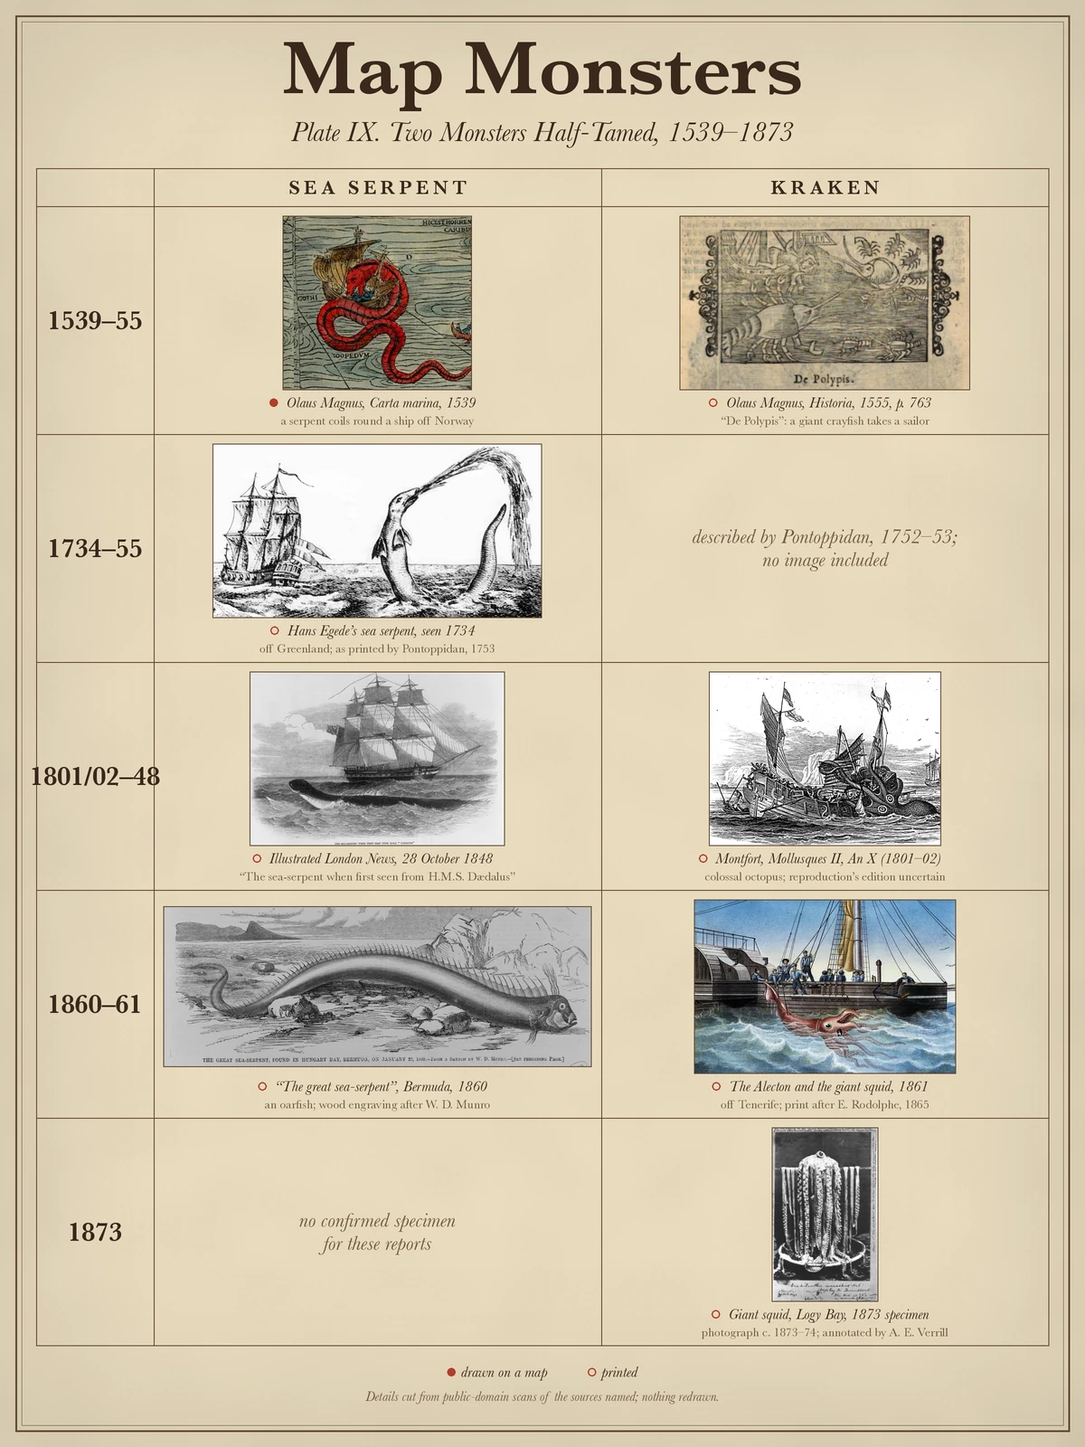
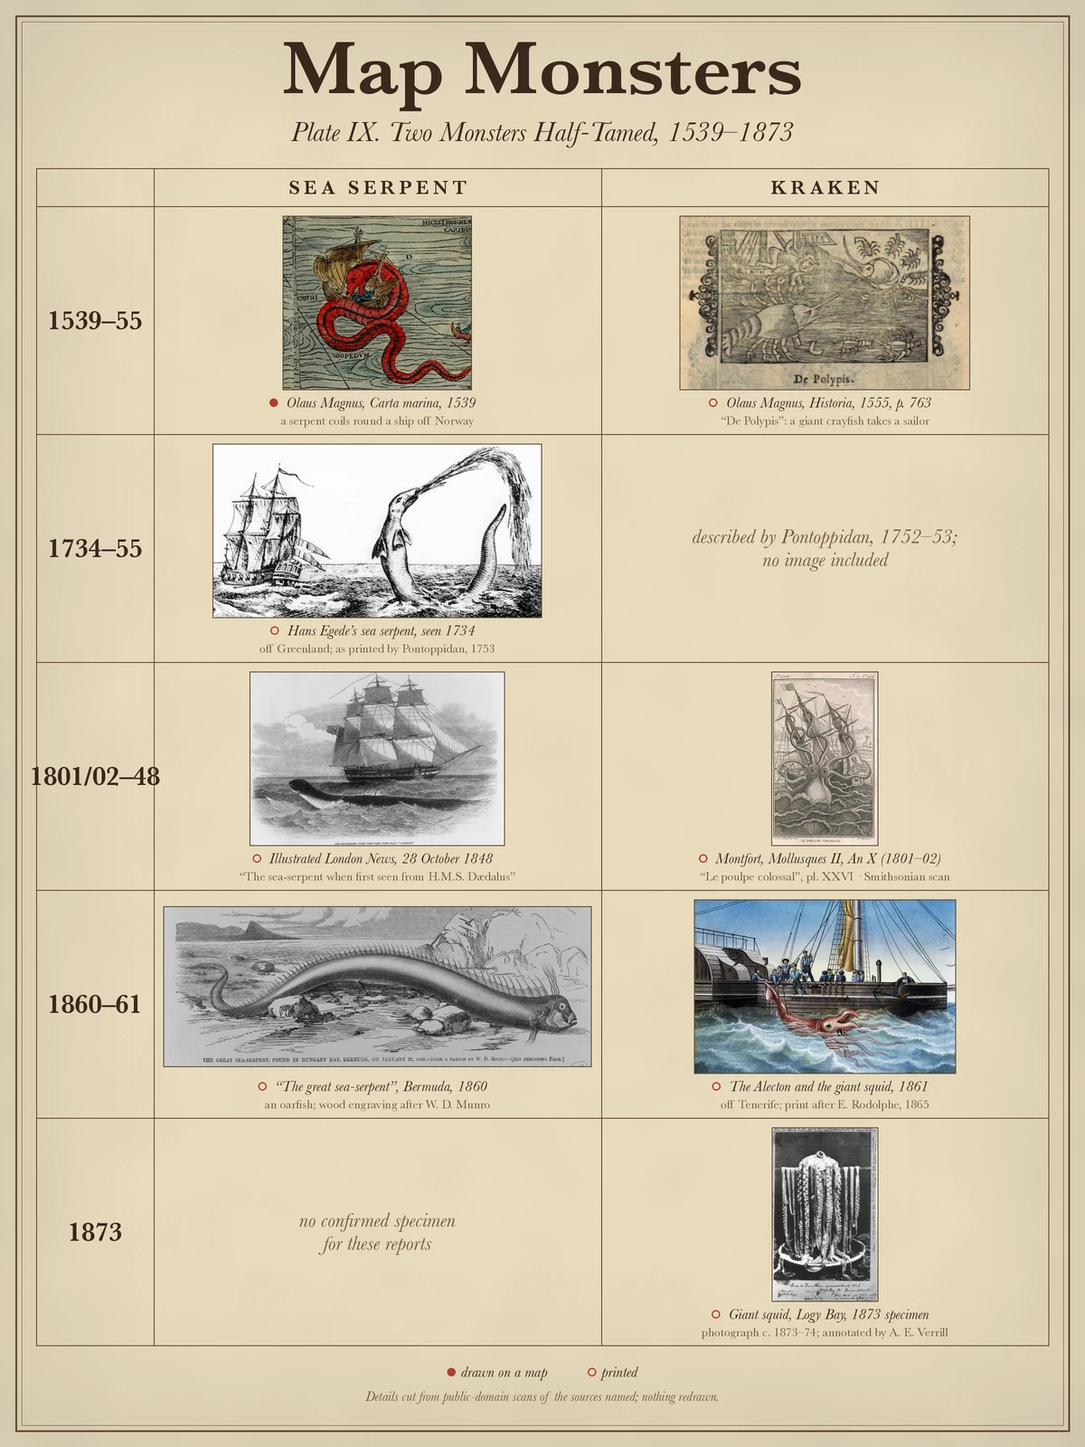
Replace Montfort reproduction with Smithsonian original-edition plate

Changed region(s): [[0.6475, 0.4375, 0.8942, 0.625]]

diff --git a/experiments/map-monsters/index.html b/experiments/map-monsters/index.html
@@ -171,9 +171,9 @@
 <p class="evidence">Evidence notes: <a href="https://www.loc.gov/item/2003680172/">Reference 1 ↗</a></p>
 </details>
 <details class="specimen" id="specimen-kraken_1801"><summary><span>1801/02–48</span> Kraken</summary>
-<p class="caption">Montfort, Mollusques II, An X (1801–02)</p><p>colossal octopus; reproduction’s edition uncertain</p><p>Le poulpe colossal means the colossal octopus. Montfort distinguished this from his kraken octopus. The work’s volume II is dated An X (1801–1802); the exact month is unknown. The supplied reproduction is catalogued as 1810 on Commons and derives from a 1994 book, so its particular printed edition remains uncertain.</p>
-<figure><a href="img/context/kraken_1801.webp" target="_blank" rel="noopener" aria-label="Enlarge source context for Kraken"><img src="img/context/kraken_1801.webp" loading="lazy" width="1400" alt="Selected detail outlined in red within the supplied scan: Montfort, Mollusques II, An X (1801–02)"></a><figcaption><a href="https://commons.wikimedia.org/wiki/File:Denys_de_Montfort_Poulpe_Colossal.jpg">Source record / full work ↗</a> · Public domain</figcaption></figure>
-<p class="evidence">Evidence notes: <a href="https://www.biodiversitylibrary.org/bibliography/51804">Reference 1 ↗</a> · <a href="https://www.biodiversitylibrary.org/item/206416?t=51804">Reference 2 ↗</a></p>
+<p class="caption">Montfort, Mollusques II, An X (1801–02)</p><p>“Le poulpe colossal”, pl. XXVI · Smithsonian scan</p><p>Le poulpe colossal means the colossal octopus. Montfort distinguished this from his kraken octopus. This is a scan of plate XXVI from the Smithsonian Libraries copy of volume II, original French edition, Paris, F. Dufart, An X (1801–1802). The sheet reads “Pl. XXVI”, “T. 2. P. 256” and “Le poulpe colossal”; the title page verifies the publisher and year. The exact Gregorian publication month remains unknown.</p>
+<figure><a href="img/context/kraken_1801.webp" target="_blank" rel="noopener" aria-label="Enlarge source context for Kraken"><img src="img/context/kraken_1801.webp" loading="lazy" width="1400" alt="Selected detail outlined in red within the supplied scan: Montfort, Mollusques II, An X (1801–02)"></a><figcaption><a href="https://archive.org/details/Histoirenaturel2Deny/page/n294/mode/1up">Source record / full work ↗</a> · Public domain (Smithsonian Libraries / BHL)</figcaption></figure>
+<p class="evidence">Evidence notes: <a href="https://archive.org/details/Histoirenaturel2Deny/page/n4/mode/1up">Reference 1 ↗</a> · <a href="https://archive.org/details/Histoirenaturel2Deny">Reference 2 ↗</a> · <a href="https://www.biodiversitylibrary.org/bibliography/51804">Reference 3 ↗</a></p>
 </details>
 <details class="specimen" id="specimen-serp_1860"><summary><span>1860–61</span> Sea Serpent</summary>
 <p class="caption">“The great sea-serpent”, Bermuda, 1860</p><p>an oarfish; wood engraving after W. D. Munro</p><p>The print calls the animal a sea-serpent; it is identified here as an oarfish. The reported find was 22 January 1860; the engraving appeared in Harper’s Weekly on 3 March 1860.</p>
@@ -233,7 +233,7 @@
     <h2 id="dates-title">Dates behind the pictures</h2>
     <dl>
       <dt>Montfort · An X (1801–1802)</dt>
-      <dd>Volume II of <i>Mollusques</i> is dated An X, a French Republican year spanning September 1801–September 1802. BHL states that the exact publication months are unknown. We retain the range rather than choosing 1801 or 1802. The supplied reproduction has a conflicting 1810 catalogue date and comes via a 1994 book; its particular printed edition is unverified. <a href="https://www.biodiversitylibrary.org/bibliography/51804">BHL bibliographic notes ↗</a> · <a href="https://commons.wikimedia.org/wiki/File:Denys_de_Montfort_Poulpe_Colossal.jpg">Reproduction record ↗</a></dd>
+      <dd>Volume II of <i>Mollusques</i> is dated An X, a French Republican year spanning September 1801–September 1802. BHL states that the exact publication months are unknown. We retain the range rather than choosing 1801 or 1802. The image now comes directly from the Smithsonian Libraries copy of the original French edition: plate XXVI, facing p. 256. Its title page names Paris, F. Dufart, An X. <a href="https://archive.org/details/Histoirenaturel2Deny/page/n294/mode/1up">Original plate ↗</a> · <a href="https://archive.org/details/Histoirenaturel2Deny/page/n4/mode/1up">Title page ↗</a> · <a href="https://www.biodiversitylibrary.org/bibliography/51804">BHL bibliographic notes ↗</a></dd>
       <dt>Logy Bay · 1873 specimen; photograph c. 1873–1874</dt>
       <dd>Harvard’s Museum of Comparative Zoology dates the catch and illustrated specimen to 1873; Smithsonian’s caption dates the bath photograph to 1874. The plate distinguishes the specimen year from an uncertain exposure date. Verrill’s handwritten notes are a later layer of evidence. <a href="https://www.mcz.harvard.edu/sites/g/files/omnuum6431/files/mcz/files/mcz_ar_2023-24_web_final_ada.pdf">MCZ report, p. 7 ↗</a> · <a href="https://ocean.si.edu/ocean-life/invertebrates/giant-squid">Smithsonian caption ↗</a></dd>
       <dt>Other event and publication dates</dt>

diff --git a/execution/rebuild_map_monsters.py b/execution/rebuild_map_monsters.py
@@ -92,16 +92,20 @@ def catalogue(manifest: dict, crops: dict) -> str:
     return '\n'.join(parts)
 
 
-def export(manifest: dict) -> None:
+def export(manifest: dict, selected: str | None = None) -> None:
     from PIL import Image, ImageDraw
     crops = json.loads((BASE / 'build/crops.json').read_text())
     output = PUBLIC / 'img'
     (output / 'context').mkdir(parents=True, exist_ok=True)
     for filename, name in [('map-monsters-plate-real.png', 'sources'), ('map-monsters-plate-ix-real.png', 'ix-sources'), ('map-monsters-plate-x-real.png', 'x-sources')]:
+        if selected and name != {'viii': 'sources', 'ix': 'ix-sources', 'x': 'x-sources'}[selected]:
+            continue
         with Image.open(BASE / 'renders' / filename) as plate:
             plate.save(output / f'{name}.webp', quality=90, method=6)
             plate.resize((1200, 1600), Image.Resampling.LANCZOS).save(output / f'{name}-1200.webp', quality=90, method=6)
     for key, spec in crops.items():
+        if selected and not any(key in c['crops'] for c in manifest['cells'] if c['plate'] == selected):
+            continue
         with Image.open(BASE / 'sources' / spec['src']) as original:
             image = original.convert('RGB')
         scale = image.width / spec.get('basis', image.width)
@@ -118,13 +122,14 @@ def export(manifest: dict) -> None:
     before, rest = text.split(start, 1)
     _, after = rest.split(end, 1)
     path.write_text(before + start + '\n' + catalogue(manifest, crops) + '\n' + end + after)
-    LOG.info('Exported three plates, 31 context images and 30 catalogue entries')
+    LOG.info('Exported %s plates and their scan contexts; updated 30 catalogue entries', selected or 'three')
 
 
 def main() -> int:
     parser = argparse.ArgumentParser(description=__doc__)
     parser.add_argument('--fetch', action='store_true', help='Download missing scans; reject changed bytes')
     parser.add_argument('--verify-only', action='store_true', help='Check cache without rebuilding')
+    parser.add_argument('--plate', choices=['viii', 'ix', 'x'], help='Rebuild only one plate and its contexts')
     args = parser.parse_args()
     logging.basicConfig(level=logging.INFO, format='%(levelname)s %(message)s')
     try:
@@ -133,9 +138,13 @@ def main() -> int:
         manifest = json.loads((BASE / 'manifest.json').read_text())
         verify_sources(manifest, args.fetch)
         if not args.verify_only:
-            for script in ('crop.py', 'plate.py', 'plates.py'):
-                subprocess.run([sys.executable, '-I', str(BASE / 'build' / script)], check=True)
-            export(manifest)
+            subprocess.run([sys.executable, '-I', str(BASE / 'build/crop.py')], check=True)
+            if args.plate in (None, 'viii'):
+                subprocess.run([sys.executable, '-I', str(BASE / 'build/plate.py')], check=True)
+            if args.plate != 'viii':
+                command = [sys.executable, '-I', str(BASE / 'build/plates.py')]
+                subprocess.run(command + ([args.plate] if args.plate else []), check=True)
+            export(manifest, args.plate)
         return 0
     except (OSError, ValueError, RuntimeError, subprocess.CalledProcessError) as error:
         LOG.error('%s', error)

diff --git a/execution/test_map_monsters.py b/execution/test_map_monsters.py
@@ -13,6 +13,20 @@ import rebuild_map_monsters as build
 
 
 class SourceContract(unittest.TestCase):
+    def test_montfort_uses_institutional_original_with_title_evidence(self):
+        manifest = json.loads((build.BASE / 'manifest.json').read_text())
+        crops = json.loads((build.BASE / 'build/crops.json').read_text())
+        source = manifest['sources'][crops['kraken_1801']['src']]
+        self.assertEqual(source['download_url'], 'https://archive.org/download/Histoirenaturel2Deny/page/n294_w2000.jpg')
[1 lines of base64/hex data omitted]
+        evidence = source['edition_evidence']
+        self.assertIn('AN X', evidence['title_page_transcription'])
+        self.assertIn('DUFART', evidence['title_page_transcription'])
+        self.assertEqual(evidence['reader_index'], 294)
+        self.assertEqual(evidence['scandata_leaf'], 295)
+        self.assertIn('XXVI', evidence['plate_transcription'])
+        self.assertIn('/page/n4/', evidence['title_page'])
+
     def test_captions_match_plate_renderers(self):
         sys.path.insert(0, str(build.BASE / 'build'))
         import plate

diff --git a/experiments-source/map-monsters/build/plates.py b/experiments-source/map-monsters/build/plates.py
@@ -34,7 +34,7 @@ PLATES = {
             ]),
             ("1801/02–48", [
                 cell("serp_1848", False, "Illustrated London News, 28 October 1848", "“The sea-serpent when first seen from H.M.S. Dædalus”"),
-                cell("kraken_1801", False, "Montfort, Mollusques II, An X (1801–02)", "colossal octopus; reproduction’s edition uncertain"),
+                cell("kraken_1801", False, "Montfort, Mollusques II, An X (1801–02)", "“Le poulpe colossal”, pl. XXVI · Smithsonian scan"),
             ]),
             ("1860–61", [
                 cell("serp_1860", False, "“The great sea-serpent”, Bermuda, 1860", "an oarfish; wood engraving after W. D. Munro"),
@@ -152,5 +152,9 @@ def build(key: str, spec: dict) -> Path:
 
 
 if __name__ == "__main__":
-    for k, s in PLATES.items():
-        build(k, s)
+    import argparse
+    parser = argparse.ArgumentParser(description=__doc__)
+    parser.add_argument('plate', nargs='?', choices=['ix', 'x'])
+    args = parser.parse_args()
+    for k in ([args.plate] if args.plate else PLATES):
+        build(k, PLATES[k])

diff --git a/knowledge/domain/map-monsters-evidence.md b/knowledge/domain/map-monsters-evidence.md
@@ -15,7 +15,15 @@ The three plates are selected comparisons of European depictions, mainly norther
 
 The [BHL bibliographic record](https://www.biodiversitylibrary.org/bibliography/51804) explicitly says volumes 1–4 are dated An X, explains the Republican calendar range, and states that exact publication months are unknown. The [Smithsonian copy of volume II](https://www.biodiversitylibrary.org/item/206416?t=51804) is catalogued as 1802; the [Harvard copy](https://www.biodiversitylibrary.org/item/110561?t=51804) is catalogued as 1801. Use **An X (1801–1802)**, not an asserted exact Gregorian publication year. This range is supported by the volume-level catalogue notes.
 
-The supplied [Commons reproduction](https://commons.wikimedia.org/wiki/File:Denys_de_Montfort_Poulpe_Colossal.jpg) has an 1810 date, lists Ellis's 1994 book as its source, and contains archive-photo metadata. It is not established as a scan of the particular first-edition sheet. The source plate and specimen note explicitly distinguish the work's date from the reproduction's unresolved edition. No authenticity claim about this reproduction was added. A direct first-edition replacement would improve this cell when one can be retrieved and compared.
+### Original-edition scan recovered — 2026-11-27
+
+The Montfort cell now uses [Plate XXVI in the Smithsonian Libraries volume-II scan](https://archive.org/details/Histoirenaturel2Deny/page/n294/mode/1up), item `Histoirenaturel2Deny`, call number **39088008978892**. The [title page, reader index n4](https://archive.org/details/Histoirenaturel2Deny/page/n4/mode/1up) visibly states **PAR DENYS-MONTFORT; TOME SECOND; A PARIS; DE L’IMPRIMERIE DE F. DUFART; AN X**. The selected engraving visibly states **Pl. XXVI; T. 2. P. 256; LE POULPE COLOSSAL**. Those inscriptions, the complete institutional volume and its catalogue description identify the original French An X edition rather than an unattached later reproduction. The Smithsonian catalogue describes this copy's original orange paperboard binding and provenance from S. Stillman Berry via Clyde Roper.
+
[1 lines of base64/hex data omitted]
+
+Earlier source, now superseded: the [Commons reproduction](https://commons.wikimedia.org/wiki/File:Denys_de_Montfort_Poulpe_Colossal.jpg) carried an 1810 date, cited Ellis's 1994 book and contained archive-photo metadata. Its edition was not authenticated. That image is no longer a manifest input or the published source cell; the old local cached file may remain as research history.
+
+Retrieval quirk: this Smithsonian scan's scandata starts `leafNum` at 1, while the reader's `n` index starts at 0. Thus title leaf 5 is reader n4, and plate leaf 295 is reader n294. Requests for n5/n295 return the reverse blank sheets, not the intended pages. Confirm the inscriptions visually; never transfer a leaf number into a reader URL without checking the indexing.
 
 ### Logy Bay: 1873 specimen, photograph c. 1873–1874
 

diff --git a/experiments-source/map-monsters/README.md b/experiments-source/map-monsters/README.md
@@ -16,7 +16,7 @@ python3 -m pip install -r experiments-source/map-monsters/requirements.txt
 python3 execution/rebuild_map_monsters.py --fetch
 ```
 
-The command downloads missing inputs, verifies SHA-256 checksums, creates output directories, crops the scans, composes three plates, exports 2400/1200 px WebP images, creates highlighted scan-context images, and updates the readable specimen catalogue in `index.html`. Omit `--fetch` for an offline rebuild from the scan cache; use `--verify-only` for checksum validation without rendering. Missing Pillow fails before downloads. A changed upstream image fails checksum verification and is never silently accepted. Check upstream revisions before explicitly updating a manifest entry.
+The command downloads missing inputs, verifies SHA-256 checksums, creates output directories, crops the scans, composes three plates, exports 2400/1200 px WebP images, creates highlighted scan-context images, and updates the readable specimen catalogue in `index.html`. Omit `--fetch` for an offline rebuild from the scan cache; use `--verify-only` for checksum validation without rendering. Use `--plate ix` to rebuild just Plate IX and its scan contexts, preserving the other published plates. Missing Pillow fails before downloads. A changed upstream image fails checksum verification and is never silently accepted. Check upstream revisions before explicitly updating a manifest entry.
 
 The renderer uses macOS Baskerville at `/System/Library/Fonts/Supplemental/Baskerville.ttc`. It requires that font; other operating systems need an explicitly selected equivalent before rebuilding. Pillow’s paper texture is stochastic, so rebuilds reproduce the composition, not identical output bytes. Pillow is used at the version tested for this rebuild; this is not a claim that the version is the latest available.
 
@@ -33,7 +33,7 @@ Python `-I` isolates imports and environment settings. It does **not** sandbox i
 
 ## Evidence decisions
 
-Montfort’s volume II is dated An X (1801–1802), rather than a secure single year. The supplied reproduction’s own edition remains uncertain. Logy Bay is a 1873 specimen; the bath photograph is conservatively dated c. 1873–1874 because institutional captions conflict. Source dates and event dates are separate. Full evidence notes live in `knowledge/domain/map-monsters-evidence.md` and on the page.
+Montfort’s volume II is dated An X (1801–1802), rather than a secure single year. The Montfort cell uses plate XXVI from the Smithsonian Libraries copy of the original French edition (call number 39088008978892), with its title-page evidence recorded in the manifest. Logy Bay is a 1873 specimen; the bath photograph is conservatively dated c. 1873–1874 because institutional captions conflict. Source dates and event dates are separate. Full evidence notes live in `knowledge/domain/map-monsters-evidence.md` and on the page.
 
 ## Verify
 

diff --git a/knowledge/SESSION.md b/knowledge/SESSION.md
@@ -697,3 +697,17 @@ Verdict: kept — "Looks good, push it to Zero Page Labs and verify the live pag
 Production verification: https://zeropagelabs.com/experiments/map-monsters/ opens on VIII sources. Live desktop1280 and phone375 checks passed source/illustrated switching, browser Back, specimen expansion, tentative identification wording, X specimen deep link, highlighted context image loading, 30 catalogue entries, no horizontal overflow and no console warning/error. Deployment fingerprint was checked with a fresh diagnostic query after the cached prior marker was observed.
 S.D.G.: Visitors can now inspect the published historical images and read the qualifications behind the catalogue.
 Feynman gap: Live browser verification passed; physical touch and the previously documented historical date/provenance uncertainties remain open.
+
+## 2026-11-27 — Original-edition Montfort scan
+Goal: Find an institutional first-edition scan and replace the uncertain reproduction.
+Agent: OpenAI Codex
+Handoff-from: OpenAI Codex
+Handoff-type: continuation
+Status: Verified original-edition scan retrieved from Smithsonian Libraries item Histoirenaturel2Deny. Replacement built and locally verified; publishing next.
+Verdict: pending — "Can you find a first-edition Montfort scan to replace the reproduction with the uncertain date?"
+
+- Evidence: title reader n4 states Denys-Montfort, Tome second, F. Dufart, An X. Plate reader n294 states Pl. XXVI, T. 2. P. 256, Le poulpe colossal. Original French edition attribution is supported by the complete institutional copy, printed imprint and original-binding catalogue description. Manifest stores the plate and title-page checksums. An X remains 1801–1802; the month is not newly established.
+- Changed: replaced Montfort manifest input and crop, rebuilt Plate IX and its context image, updated catalogue/date notes and evidence handoff. Added --plate for targeted rebuilds so unrelated plates remain untouched. Prior Commons source is retained only as superseded research history.
+- Verification: 7 targeted Python tests, 3 Node tests, 25 source hashes, title-page hash, 20-page deep verification, desktop/375px image rendering and fresh independent review passed. No browser overflow or console warning/error.
+S.D.G.: Readers can inspect Montfort’s original printed engraving in its authenticated volume rather than rely on a detached later reproduction.
+Feynman gap: Exact Gregorian publication month remains unknown; production verification is pending.

diff --git a/task.md b/task.md
@@ -793,3 +793,21 @@ Surface: experiments/map-monsters and experiments-source/map-monsters. Execution
 - [x] Desktop browser checks pass.
 - [x] Mobile browser checks pass.
 - [x] A fresh independent verifier reports no unresolved blocker.
+
+## 2026-11-27 — Replace the Montfort reproduction
+Surface: Map Monsters Plate IX source image, crop context, manifest and evidence notes. Execution: execution/rebuild_map_monsters.py. Preserve An X as 1801–1802 unless primary evidence narrows it. Publication follows the existing approved Zero Page Labs release workflow after verification.
+
+- [x] The replacement scan belongs to a complete original-edition volume.
+- [x] The volume title page identifies Dufart as publisher.
+- [x] The title page bears An X.
+- [x] The selected sheet identifies plate XXVI.
+- [x] The selected sheet bears Le poulpe colossal.
+- [x] The manifest records the institutional scan URL.
+- [x] The manifest records the replacement checksum.
+- [x] Plate IX uses the replacement scan.
+- [x] The specimen context uses the replacement scan.
+- [x] Current copy removes the reproduction-edition uncertainty.
+- [x] The Montfort provenance regression passes.
+- [x] The deep site verifier passes.
+- [x] Browser inspection confirms the replacement image renders.
+- [x] Independent verification reports no unresolved blocker.

diff --git a/knowledge/ERRORS.md b/knowledge/ERRORS.md
@@ -58,3 +58,10 @@ The private-scaffold check inspected absolute path segments and rejected the ent
 
 ## 2026-11-09 Showcase HTML and CSS cached independently
 The COME AT ME! rack preview HTML reached the custom domain while the old stylesheet was still cached. An arbitrary query string and a no-cache request did not refresh the custom-domain HTML in this check. Published the revised stylesheet at `showcase.css`. Verified the release at the Render origin first, then waited for the public HTML to reference the new asset URL.
+
+## 2026-11-27 — Internet Archive leaf numbers can differ from reader indices
+
+Error: Smithsonian Montfort scandata leaf 5/295 requested as reader n5/n295 returned blank reverse sheets.
+Cause: this scan’s scandata is one-based; the reader index is zero-based.
+Fix: use title n4 and plate n294, then visually verify the inscriptions before selecting a source. Derive each scan’s mapping rather than assuming a universal offset.
+Graduated-to: domain/map-monsters-evidence.md, original-edition retrieval notes; manifest edition_evidence stores both leaf and reader indices.

diff --git a/knowledge/INDEX.md b/knowledge/INDEX.md
@@ -9,7 +9,7 @@ timestamp: "2026-11-07T16:31:28.188948-06:00"
 | [context.md](context.md) | domain | 2026-11-16 | Brand, dual goal (Showcase/Credibility + Craft/Playground), and current surface |
 | [SESSION.md](SESSION.md) | log | 2026-11-16 | Showcase front door handoff; earlier launch handoffs |
 | [DECISIONS.md](DECISIONS.md) | decision | 2026-11-16 | Static architecture, released content, full-book bounded views, one experiments list and build-time share tags |
-| [ERRORS.md](ERRORS.md) | errors | 2026-11-08 | Image aspect ratio, splash clearance and fullscreen flex sizing fixes |
+| [ERRORS.md](ERRORS.md) | errors | 2026-11-27 | Rendering fixes and Internet Archive leaf-to-reader indexing |
 | [domain/content.md](domain/content.md) | domain | 2026-11-25 | Availability and asset provenance; generated Bellona cover |
 | [procedural/deploy_site.md](procedural/deploy_site.md) | procedural | 2026-11-25 | Build, checks, deployment and analytics reporting |
 | [REFLECTIONS.jsonl](REFLECTIONS.jsonl) | reflection | 2026-11-07 | Launch lessons |

diff --git a/knowledge/procedural/rebuild_map_monsters.md b/knowledge/procedural/rebuild_map_monsters.md
@@ -12,3 +12,5 @@ For caption changes, update the corresponding manifest cell and the renderer's r
 Run the targeted Python and Node tests named in the README, the site build, and deep verification. If experiment listing text changes, regenerate its share card with `python3 execution/build_share_cards.py`, then rebuild the site. Browser-check the default source view, plate changes, artistic interpretation, browser Back, specimen expansion and a specimen deep link at desktop and 375 px widths. Confirm no overflow or console errors.
 
 Do not infer that a matching checksum authenticates an image's historical attribution: it establishes which digital bytes the plate used. Some supplied scans are already details; only the source record may lead to the complete work.
+
+For a single source replacement, use `--plate viii`, `--plate ix` or `--plate x` to preserve unrelated rendered plates. The catalogue is regenerated in full; only selected plate/context assets are exported.
